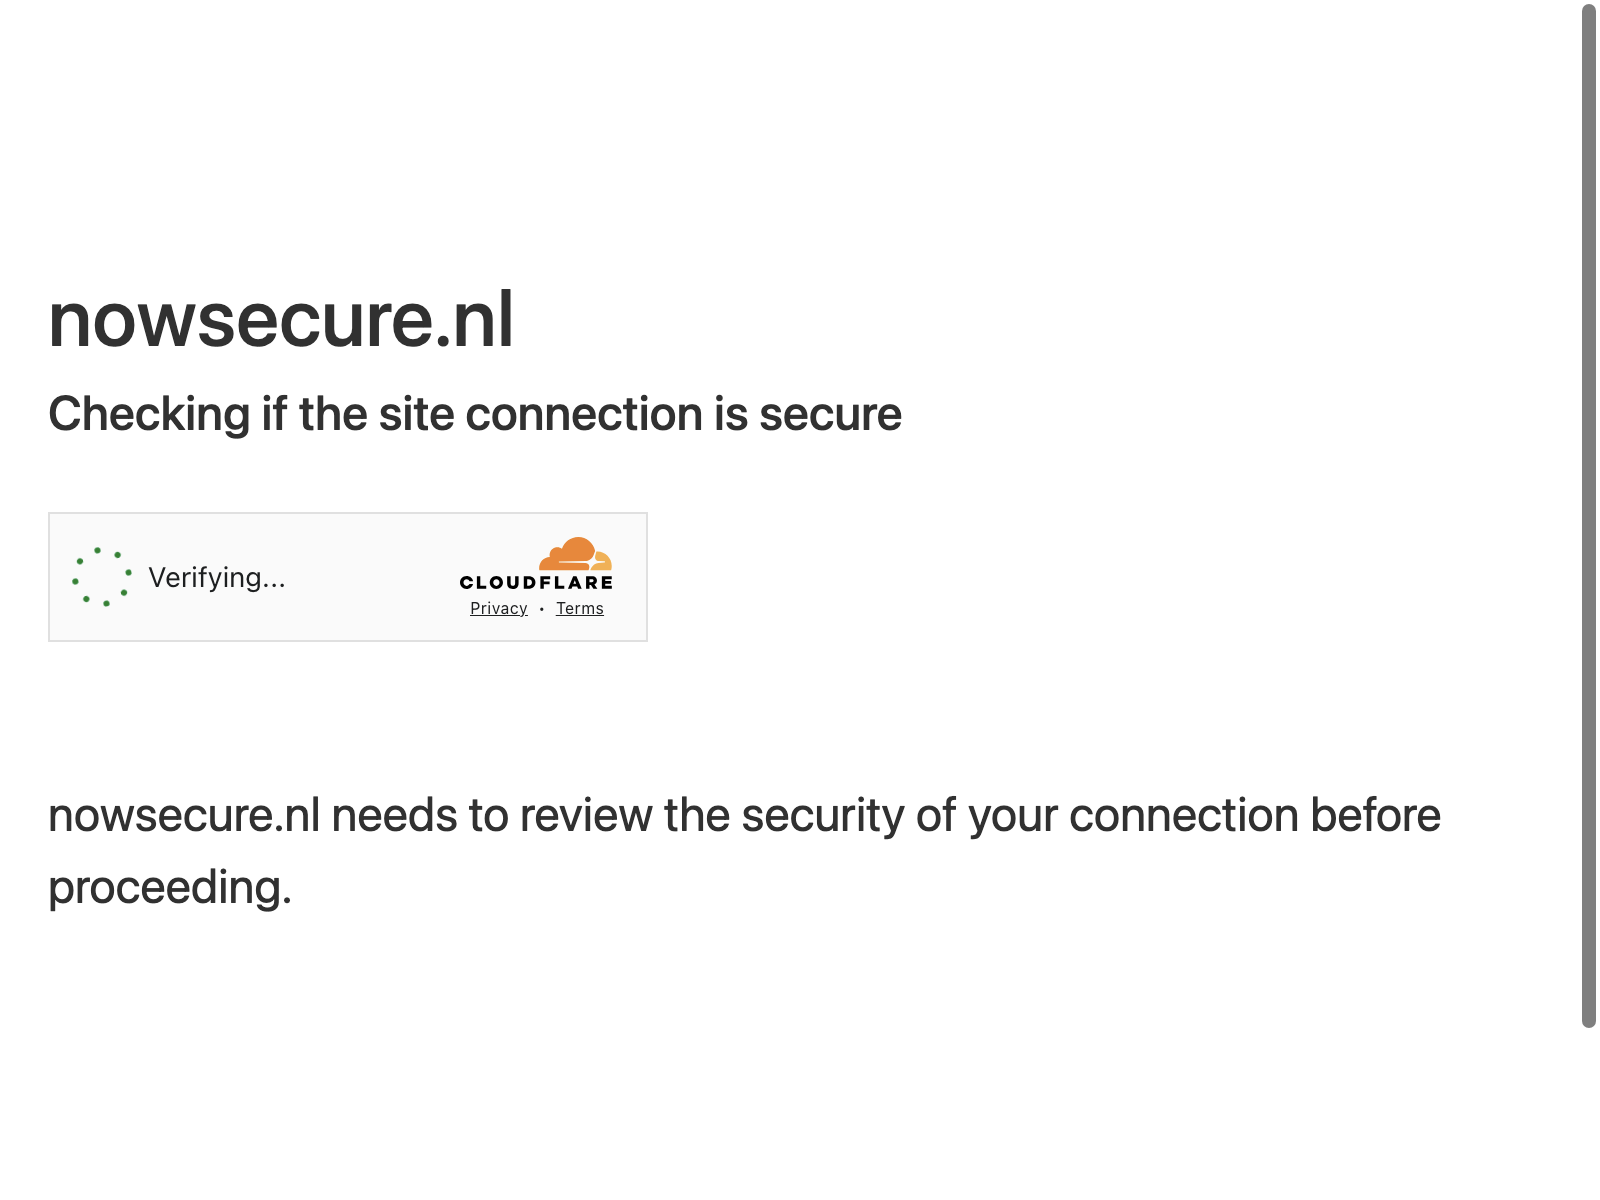
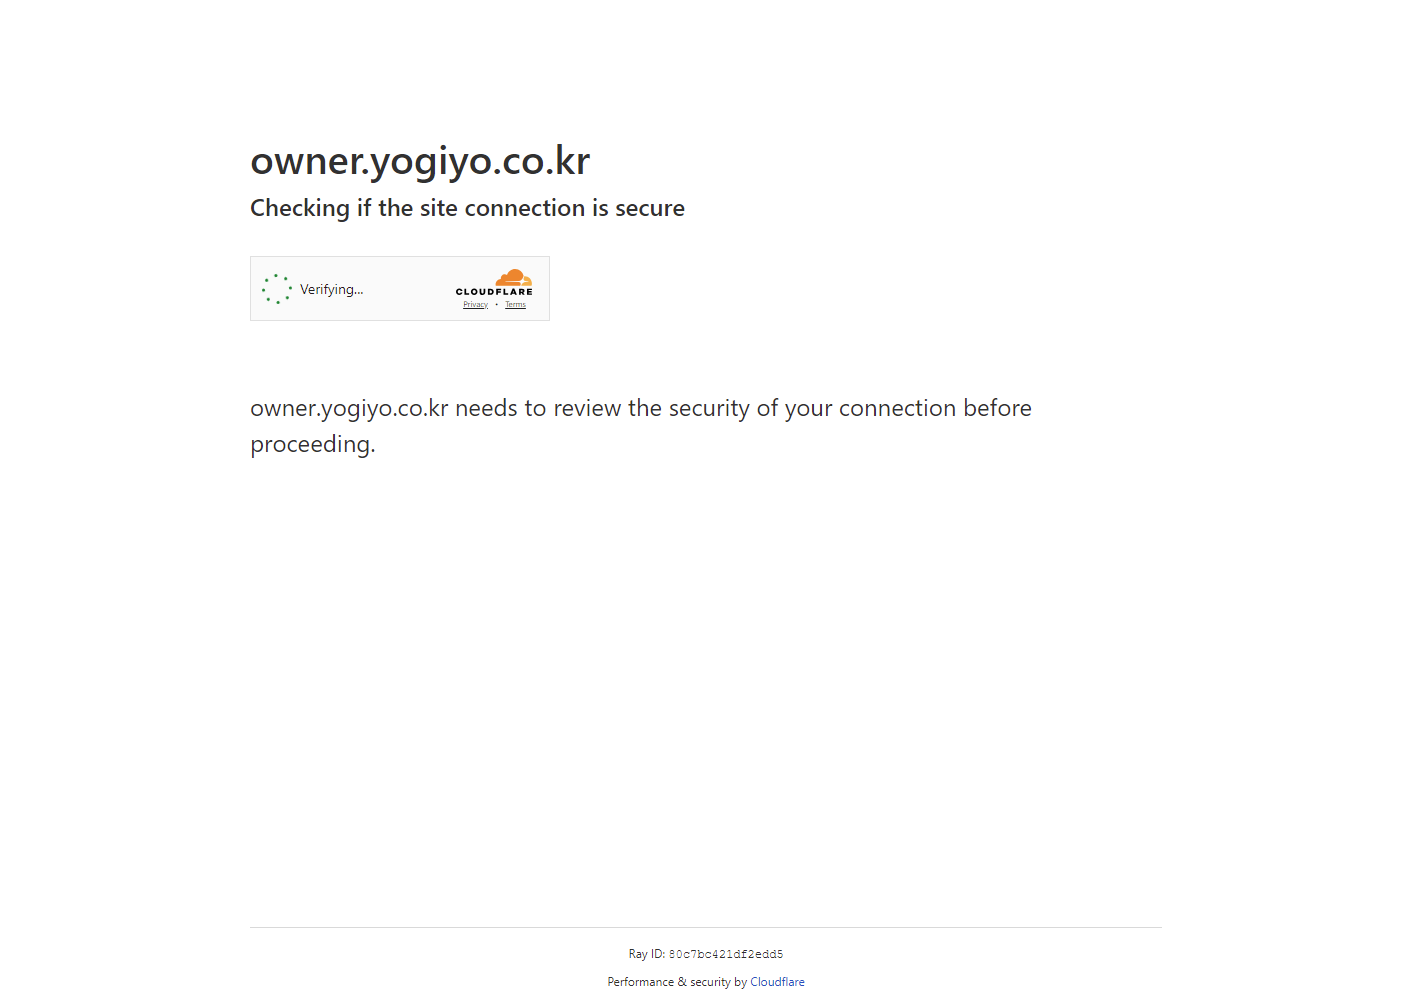
commit 2023-09-26

diff --git a/src/solve_cloudflare.py b/src/solve_cloudflare.py
@@ -1,34 +1,23 @@
-from sas_driver import SASDriver
-from time import sleep
-from selenium.webdriver.common.by import By
-from selenium.webdriver.support.ui import WebDriverWait
-from selenium.webdriver.support import expected_conditions as EC
-from selenium.common.exceptions import TimeoutException
+from common import get_current_path2
 from urllib import parse
-from common import screenshot
+import json
+from seleniumbase import SB, BaseCase
+
+BaseCase.main(__name__, __file__)
 
 
-class SolveCloudflare:
+def verify_success(sb: SB, assert_element: str) -> None:
+    sb.assert_element(assert_element, timeout=8)
+    sb.sleep(4)
+
+
+class SolveCloudflare(BaseCase):
     def __init__(self):
+        super().__init__()
         print('SolveCloudflare __init__')
-        pass
 
-    @staticmethod
-    def solve(url=None, user_agent=None, use_random_agent=False, random_agent_name=None) -> dict:
+    def solve(self, url=None, assert_element=None) -> dict:
         print('Solve cloudflare...')
-
-        sas_driver = SASDriver()
-        if user_agent is not None and user_agent != '':
-            sas_driver.userAgent = user_agent
-
-        if use_random_agent:
-            if random_agent_name is not None and random_agent_name != '':
-                sas_driver.randomAgentName = random_agent_name
-                sas_driver.set_random_user_agent()
-
-        sas_driver.init_chrome_option()
-        sas_driver.init_driver()
-        driver = sas_driver.driver
 
         # driver.get('https://arh.antoinevastel.com/bots/areyouheadless')  # check if you are chrome headless
         # driver.get('https://amiunique.org/fingerprint')  # check our browser fingerprint look unique
@@ -36,73 +25,82 @@ class SolveCloudflare:
 
         print(f'request url: {url}')
 
-        # driver.get(url)
-        driver.execute_script('''window.open("http://nowsecure.nl","_blank");''')  # open page in new tab
-        sleep(5)  # wait until page has loaded
-        driver.switch_to.window(window_name=driver.window_handles[0])  # switch to first tab
-        driver.close()  # close first tab
-        driver.switch_to.window(window_name=driver.window_handles[0])  # switch back to new tab
-        sleep(2)
-        driver.get("https://google.com")
-        sleep(2)
-        driver.get("https://nowsecure.nl")  # this should pass cloudflare captchas now
-
-        sleep(5)  # Wait for the page to load
-
-        print(f'title: {driver.title}')  # obtains title
-
-        result_str = driver.page_source
-        is_chk = False
-        bypass_success = False
-        error = ""
-
-        # verify is there is a cloudflare exist.
-        if result_str.find('needs to review the security of your connection before proceeding') > -1:
-            is_chk = True
-        else:
-            bypass_success = True
-
-        if is_chk:
+        page_headers = ''
+        current_title = ''
+        current_source = ''
+        navigator_user_agent = ''
+        is_detected = False
+        with SB(uc_cdp=True, incognito=True, headless="--headless", agent="python-requests/2.31.0") as sb:
+            sb.open(url)
             try:
-                print("waiting for iframe finished loading and switch to it...")
+                verify_success(sb=sb, assert_element=assert_element)
+                current_title = sb.get_title()
+                current_source = sb.get_page_source()
+                navigator_user_agent = sb.get_user_agent()
+                sb.save_cookies(name="cookies_1.txt")
 
-                screenshot(driver=driver, file_name="waiting_frame.png")
-
-                # Wait for the CAPTCHA to load
-                WebDriverWait(driver, 20).until(EC.frame_to_be_available_and_switch_to_it(
-                    (By.CSS_SELECTOR, "iframe[title='Widget containing a Cloudflare security challenge']")))
-                # WebDriverWait(driver, 20).until(EC.frame_to_be_available_and_switch_to_it((By.TAG_NAME, "iframe")))
-
-                # click the checkbox label
-                print("wait and try to click checkbox")
-                WebDriverWait(driver, 20).until(EC.element_to_be_clickable(
-                    (By.CSS_SELECTOR, "label.ctp-checkbox-label"))).click()
-
-                screenshot(driver=driver, file_name='click_checkbox.png')
-
-                sleep(20)  # Wait for the page after click
-                print(f'title update: {driver.title}')  # obtains title update
-
-                screenshot(driver=driver, file_name="after_click.png")
-
-                bypass_success = True
-            except (TimeoutException, Exception) as e:
-                if e is Exception:
-                    print(f'exception: {e}')
-                    error = e
+                # _xhr.getAllResponseHeaders().trim().split( / [\\r\\n]+ /).map((value) = > value.split( /: / )).forEach(
+                #     (keyValue) = > {
+                #     _headers[keyValue[0].trim()] = keyValue[1].trim();
+                # });
+                # js_headers = '''
+                #     const _xhr = new XMLHttpRequest();
+                #     _xhr.open("HEAD", document.location, false);
+                #     _xhr.send(null);
+                #
+                #     const _headers = {};
+                #
+                #     _xhr.requestHeaders().trim().split(/[\\r\\n]+/).map((value) => value.split(/: /)).forEach((keyValue) => {
+                #         _headers[keyValue[0].trim()] = keyValue[1].trim();
+                #     });
+                #
+                #     return _headers;
+                # '''
+                # page_headers = sb.execute_script(js_headers)
+            except Exception as e:
+                print(f'{e} verify ...')
+                is_detected = True
+                if sb.is_element_visible('input[value*="Verify"]'):
+                    sb.click('input[value*="Verify"]')
+                elif sb.is_element_visible('iframe[title*="challenge"]'):
+                    sb.switch_to_frame('iframe[title*="challenge"]')
+                    sb.click("span.mark")
                 else:
-                    print('Timeout exception...')
-                    error = 'Timeout exception'
+                    raise Exception("Detected!")
+                try:
+                    verify_success(sb=sb, assert_element=assert_element)
+                    current_title = sb.get_title()
+                    current_source = sb.get_page_source()
+                    navigator_user_agent = sb.get_user_agent()
+                    sb.save_cookies(name="cookies_2.txt")
+                except Exception:
+                    raise Exception("Detected!")
 
-                bypass_success = False
+        print(f'Website title: {current_title}')
+        print(f'Website header: {page_headers}')
 
-        title = driver.title
-        driver.quit()
-
-        if bypass_success:
-            msg = "success"
+        if is_detected:
+            cookie_filename = get_current_path2("saved_cookies/cookies_2.txt")
         else:
-            msg = "failed"
+            cookie_filename = get_current_path2("saved_cookies/cookies_1.txt")
 
-        encode_str = parse.quote(result_str, encoding='utf-8')
-        return {"data": encode_str, "title": title, "bypass": msg, "error": error}
+        with open(cookie_filename, 'r') as f:
+            data = json.load(f)
+        print(f'cookies data: {data}')
+
+        cookie_str = ''
+        for json_dict in data:
+            for key, value in json_dict.items():
+                print(f"key: {key} | value: {value}")
+                if key == 'name':
+                    cookie_str += value + '='
+                if key == 'value':
+                    cookie_str += value + ';'
+
+        # remove last character: (;)
+        new_cookie_str = cookie_str[:-1]
+        print(new_cookie_str)
+
+        encode_str = parse.quote(current_source, encoding='utf-8')
+        return {"data": encode_str, "title": current_title, "navigator_user_agent": navigator_user_agent,
+                "cookies": new_cookie_str}

diff --git a/src/app.py b/src/app.py
@@ -21,35 +21,31 @@ class Hello(Resource):
 @api.route('/solvecloudflare')
 class SolveSite(Resource):
     def post(self):
-        api_key = request.json.get('api-key')
+        api_key = request.json.get('API_KEY')
         print('-------------------------incoming request start-------------------------')
 
         url = request.json.get('url')
         print(f'url: {url}')
 
-        user_agent = request.json.get('user_agent')
-        print(f'user_agent: {user_agent}')
-
-        use_random_agent = request.json.get('use_random_agent')
-        print(f'use_random_agent: {use_random_agent}')
-
-        if use_random_agent is None:
-            use_random_agent = False
-
-        random_agent_name = request.json.get('random_agent_name')
-        print(f'random_agent_name: {random_agent_name}')
+        assert_element = request.json.get('assert_element')
+        print(f'assert_element: {assert_element}')
 
         print('-------------------------incoming request end-------------------------')
 
         if api_key == os.environ.get("API_KEY"):
-            result = SolveCloudflare.solve(url=url,
-                                           user_agent=user_agent,
-                                           use_random_agent=use_random_agent,
-                                           random_agent_name=random_agent_name)
-
-            return make_response(set_json_data({"result": result, 'status': True}), 200)
+            cloud_instance = SolveCloudflare()
+            result = ''
+            error = ''
+            try:
+                result = cloud_instance.solve(url=url, assert_element=assert_element)
+            except Exception as e:
+                print(f'exception: {e}')
+                error = str(e)
+            return make_response(set_json_data({"result": result, "error": error}), 200)
+        elif assert_element is None or assert_element == '':
+            return make_response(set_json_data({"result": "", "error": "invalid assert_element"}), 401)
         else:
-            return make_response(set_json_data({"result": '', 'status': False}), 401)
+            return make_response(set_json_data({"result": "", "error": "invalid API_KEY"}), 401)
 
 
 if __name__ == '__main__':

diff --git a/src/sas_driver.py b/src/sas_driver.py
@@ -1,6 +1,6 @@
 from selenium import webdriver
 from selenium.webdriver.chrome.options import Options
-from selenium_stealth import stealth
+# from selenium_stealth import stealth
 import yaml
 import random
 from typing import Union
@@ -30,8 +30,8 @@ class SASDriver:
         self.add_experimental_option("excludeSwitches", ["enable-automation"])
         self.add_experimental_option("useAutomationExtension", False)
         self.add_argument("--disable-extensions")  # disable chrome extensions
-        # self.add_argument("--disable-gpu")  # Temporarily needed if running on Windows.
-        # self.add_argument("--no-sandbox")  # linux only
+        self.add_argument("--disable-gpu")  # Temporarily needed if running on Windows.
+        self.add_argument("--no-sandbox")  # linux only
         self.add_argument("--auto-open-devtools-for-tabs")  # automatically open dev tools on every new tab
 
         '''
@@ -42,8 +42,8 @@ class SASDriver:
             self.add_argument("--headless")
             self.headless = True
         '''
-        self.add_argument("--headless")
-        # self.add_experimental_option("detach", True)  # Make selenium browser to stay open
+        # self.add_argument("--headless")
+        self.add_experimental_option("detach", True)  # Make selenium browser to stay open
 
         if self.userAgent != '':
             self.add_argument(f"--user-agent={self.userAgent}")
@@ -65,6 +65,7 @@ class SASDriver:
         self.driver = webdriver.Chrome(options=self.chromeOptions)
 
         # add stealth here...
+        '''
         stealth(
             self.driver,
             languages=["en-US", "en"],
@@ -73,6 +74,7 @@ class SASDriver:
             webgl_vendor="Intel Inc.",
             renderer="Intel Iris OpenGL Engine"
         )
+        '''
 
         random_width = 1920 + random.randint(0, 100)  # 800, 1920
         random_height = 3000 + random.randint(0, 100)  # 600, 3000

diff --git a/src/common.py b/src/common.py
@@ -18,6 +18,14 @@ def get_current_path(file_path: str) -> str:
     return current_path
 
 
+def get_current_path2(file_path: str) -> str:
+    if sys == 'Darwin':
+        current_path = os.path.join(os.getcwd(), file_path)
+    else:
+        current_path = os.path.join(os.getcwd(), file_path)
+    return current_path
+
+
 def is_mac() -> bool:
     if sys == 'Darwin':
         return True

diff --git a/README.MD b/README.MD
@@ -19,3 +19,4 @@
    url = '/products/asana/reviews'
 
 6. https://nowsecure.nl
+7. https://pace.coe.int/en/aplist/committees/9/commission-des-questions-politiques-et-de-la-democratie
